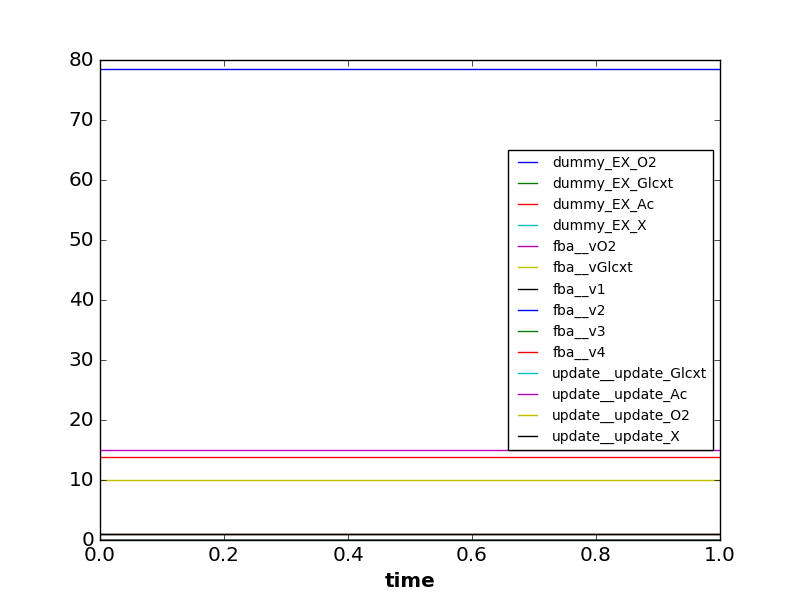
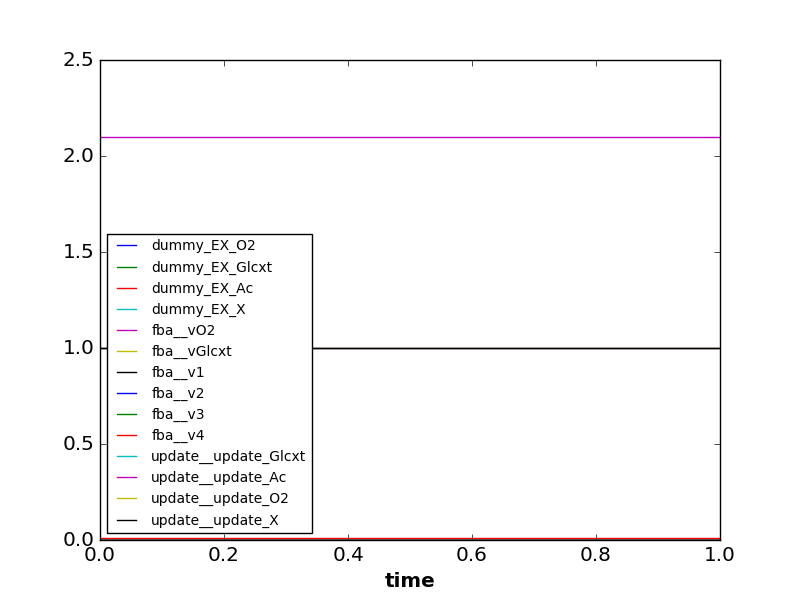
bounds fixed

diff --git a/sbmlutils/dfba/simulator.py b/sbmlutils/dfba/simulator.py
@@ -183,6 +183,7 @@ class SimulatorDFBA(object):
             framework = SimulatorDFBA.get_framework(submodel)
             self.submodels[framework].append(submodel)
 
+
     def _process_models(self):
         """ Process and prepare models for simulation.
 
@@ -248,9 +249,10 @@ class SimulatorDFBA(object):
                 else:
                     source = s2
 
+            # Create FBA model and process
             fba_model = FBAModel(submodel=submodel, source=source, flux_rules=self.flux_rules)
 
-            # fba_model.process_replacements(self.model_top)
+            fba_model._process_bound_replacements(self.model_top)
             fba_model._process_flat_mapping(self.rr_comp)
 
             self.fba_models.append(fba_model)
@@ -260,7 +262,7 @@ class SimulatorDFBA(object):
 
         :return:
         """
-        logging.debug('* _process_top')
+        logging.debug('* _process_dt')
         par = self.model_top.getParameter(DT_ID)
         if par is None:
             warnings.warn("No parameter with id '{}' in top model.".format(DT_ID))
@@ -278,6 +280,7 @@ class SimulatorDFBA(object):
             pid = rid
         i.e. a reaction rate is assigned to a parameter.
         """
+        logging.debug('* _process_flux_rules')
         flux_rules = {}
 
         for rule in top_model.getListOfRules():
@@ -365,14 +368,17 @@ class SimulatorDFBA(object):
 
                 # store ode row
                 row = result[1, :]
+                logging.debug("\tsuccessful")
 
                 # store fba fluxes
                 logging.debug('* Copy fluxes in ODE solution')
+                # FIXME: better copy
                 for fba_model in self.fba_models:
                     for k, v in fba_model.flat_mapping.iteritems():
                         flux = fba_model.cobra_model.solution.x_dict[k]
                         vindex = df_results.columns.get_loc(v)
                         row[vindex] = flux
+                        logging.debug("\t{} = {}".format(k, flux))
                 all_results.append(row)
 
                 # store and update time
@@ -437,10 +443,8 @@ class FBAModel(object):
 
         # objective sense
         self._process_objective_sense()
-
         # bounds
         self._process_bounds()
-
         # parameters to replace in top model
         self.replacement_rules = self._process_replacement_rules(flux_rules)
 
@@ -464,6 +468,7 @@ class FBAModel(object):
 
         :return:
         """
+        logging.debug('* (fba) _process_flux_rules')
         fmodel = self.sbml_model.getPlugin("fbc")
         flist = fmodel.getListOfObjectives()
         active_oid = flist.getActiveObjective()
@@ -479,6 +484,7 @@ class FBAModel(object):
         :return:
         :rtype:
         """
+        logging.debug('* (fba) _process_bounds')
         for r in self.sbml_model.getListOfReactions():
             fbc_r = r.getPlugin("fbc")
             rid = r.getId()
@@ -499,11 +505,20 @@ class FBAModel(object):
         :return:
         :rtype:
         """
+        logging.debug('* (fba) _process_flux_rules')
+        print(flux_rules)
+
         rules = {}
         for rid, pid in flux_rules.iteritems():
+            # FIXME: via replacements instead of id naming
+
+
             # searches for reactions with suitable ids in the FBA model
             if self.sbml_model.getReaction(rid) is not None:
                 rules[rid] = pid
+
+
+
         return rules
 
 
@@ -514,16 +529,14 @@ class FBAModel(object):
         they map the the bounds of the FBA model.
 
         Creates dictionary of parameter
-        { p (fba) : pid (top) }
-        i.e. which ports in the fba are replaced with the parameters
-
+        { pid (fba) : pid (top) }
         fba parameter ids : top parameter ids
         """
         fba2top = {}
-        comp_model = top_model.getPlugin('comp')
+        comp_model = self.sbml_model.getPlugin('comp')
 
         for p in top_model.getListOfParameters():
-            pid = p.getId()
+            top_pid = p.getId()
             mp = p.getPlugin("comp")
 
             rep_elements = mp.getListOfReplacedElements()
@@ -536,11 +549,10 @@ class FBAModel(object):
                         portRef = rep_element.getPortRef()
                         # get the port
                         port = comp_model.getPort(portRef)
-                        port_id = port.getId()
                         # get the id of object for port
                         id_ref = port.getIdRef()
-
-                        fba2top[id_ref] = pid
+                        # store
+                        fba2top[id_ref] = top_pid
         self.fba2top = fba2top
 
     def _process_flat_mapping(self, rr_comp):
@@ -585,25 +597,28 @@ class FBAModel(object):
 
         counter = 0
 
-        for fba_pid, top_pid in self.fba2top.iteritems():
+        for fba_pid in sorted(self.fba2top):
+            top_pid = self.fba2top[fba_pid]
 
-            for rid in self.ub_parameters.get(fba_pid):
-                cobra_reaction = self.cobra_model.reactions.get_by_id(rid)
-                ub = rr_comp[top_pid]
-                # if abs(ub) <= absTol:
-                #    ub = 0.0
-                cobra_reaction.upper_bound = ub
-                logging.debug('\tupper: {} = {} = {}'.format(fba_pid, rid, ub))
-                counter += 1
+            if fba_pid in self.ub_parameters:
 
-            for rid in self.lb_parameters.get(fba_pid):
-                cobra_reaction = self.cobra_model.reactions.get_by_id(rid)
-                lb = rr_comp[pid]
-                # if abs(lb) <= absTol:
-                #    lb = 0.0
-                cobra_reaction.lower_bound = lb
-                logging.debug('\tlower: {} = {} = {}'.format(fba_pid, rid, lb))
-                counter += 1
+                for rid in self.ub_parameters.get(fba_pid):
+                    cobra_reaction = self.cobra_model.reactions.get_by_id(rid)
+                    ub = rr_comp[top_pid]
+                    # if abs(ub) <= absTol:
+                    #    ub = 0.0
+                    cobra_reaction.upper_bound = ub
+                    logging.debug('\tupper: {:<10} = {}'.format(fba_pid, ub))
+                    counter += 1
+            if fba_pid in self.lb_parameters:
+                for rid in self.lb_parameters.get(fba_pid):
+                    cobra_reaction = self.cobra_model.reactions.get_by_id(rid)
+                    lb = rr_comp[top_pid]
+                    # if abs(lb) <= absTol:
+                    #    lb = 0.0
+                    cobra_reaction.lower_bound = lb
+                    logging.debug('\tlower: {:<10} = {}'.format(fba_pid, lb))
+                    counter += 1
 
         if counter == 0:
             logging.debug('\tNo flux bounds set')

diff --git a/sbmlutils/dfba/diauxic_growth/simulate.py b/sbmlutils/dfba/diauxic_growth/simulate.py
@@ -144,8 +144,8 @@ def print_fluxes(filepath, df):
 
 if __name__ == "__main__":
     print('Model:', sbml_top_path)
-    tend = 1
-    steps = 1  # 10*tend
+    tend = 10
+    steps = 10  # 10*tend
     import logging
     # logging.getLogger().setLevel(logging.INFO)
     df = simulate_diauxic_growth(sbml_top_path, tend, steps)
